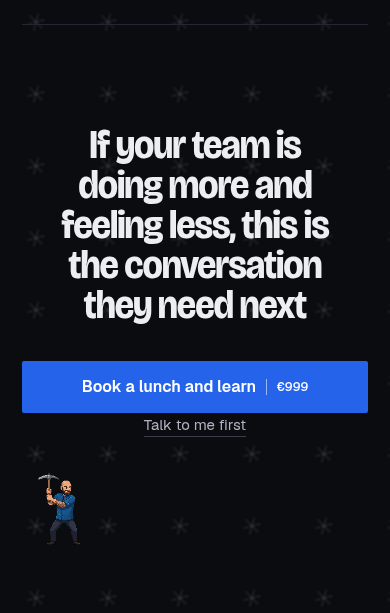
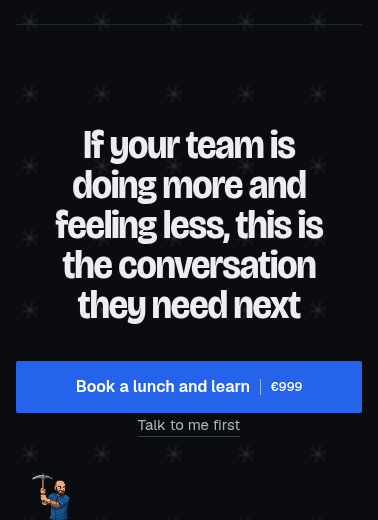
Close the mobile CTA gap and match the heading breaks.
Remove the cream strip under the sticky book bar, let two quotes fill the content width, and break the newsletter and pillars headings the way the mockup does.

diff --git a/app/v3.css b/app/v3.css
@@ -489,15 +489,30 @@ em.hl {
   max-width: 900px;
 }
 
+.v3 .h-pillars {
+  max-width: none;
+  margin: 20px 0 0;
+}
+
 .v3 .news h2 {
   font-size: 64px;
   margin: 20px 0 22px;
-  max-width: 9em;
+  max-width: none;
+}
+
+.v3 .h-break {
+  display: none;
+}
+
+@media (min-width: 1200px) {
+  .v3 .h-break {
+    display: inline;
+  }
 }
 
 .v3 .news .grid {
   display: grid;
-  grid-template-columns: minmax(0, 1.05fr) minmax(0, 1fr);
+  grid-template-columns: minmax(0, 1.42fr) minmax(0, 1fr);
   gap: 72px;
   align-items: center;
 }
@@ -1343,7 +1358,7 @@ em.hl {
 
 .v3 .quotes-2 {
   grid-template-columns: repeat(2, minmax(0, 1fr));
-  max-width: 860px;
+  width: 100%;
 }
 
 .v3 .q {
@@ -2231,8 +2246,8 @@ em.hl {
     padding: 24px;
   }
 
-  .has-sticky {
-    padding-bottom: 8px;
+  .v3.has-sticky {
+    padding-bottom: 0;
   }
 
   body:has(.has-sticky) .site-footer {

diff --git a/components/site/newsletter-block.tsx b/components/site/newsletter-block.tsx
@@ -37,7 +37,16 @@ export function NewsletterBlock({
       <div className="wrap grid">
         <div>
           <div className="eyebrow">The newsletter</div>
-          <h2>{heading}</h2>
+          <h2>
+            {heading === "I write to you every Thursday" ? (
+              <>
+                I write to you every <br className="h-break" />
+                Thursday
+              </>
+            ) : (
+              heading
+            )}
+          </h2>
           <p className="lead">
             Every Thursday I send one email with the three things I liked that week, and a little thinking on business and work.
           </p>

diff --git a/app/page.tsx b/app/page.tsx
@@ -137,8 +137,9 @@ export default async function HomePage() {
       <section className="p-mic">
         <div className="wrap">
           <div className="eyebrow">Three ways I can help</div>
-          <h2 style={{ margin: "20px 0 0", maxWidth: 900 }}>
-            I speak, I coach and I write. Pick the one you came for.
+          <h2 className="h-pillars">
+            I speak, I coach and I write. Pick the one you <br className="h-break" />
+            came for.
           </h2>
           <div className="pillars">
             <div className="pl k">
